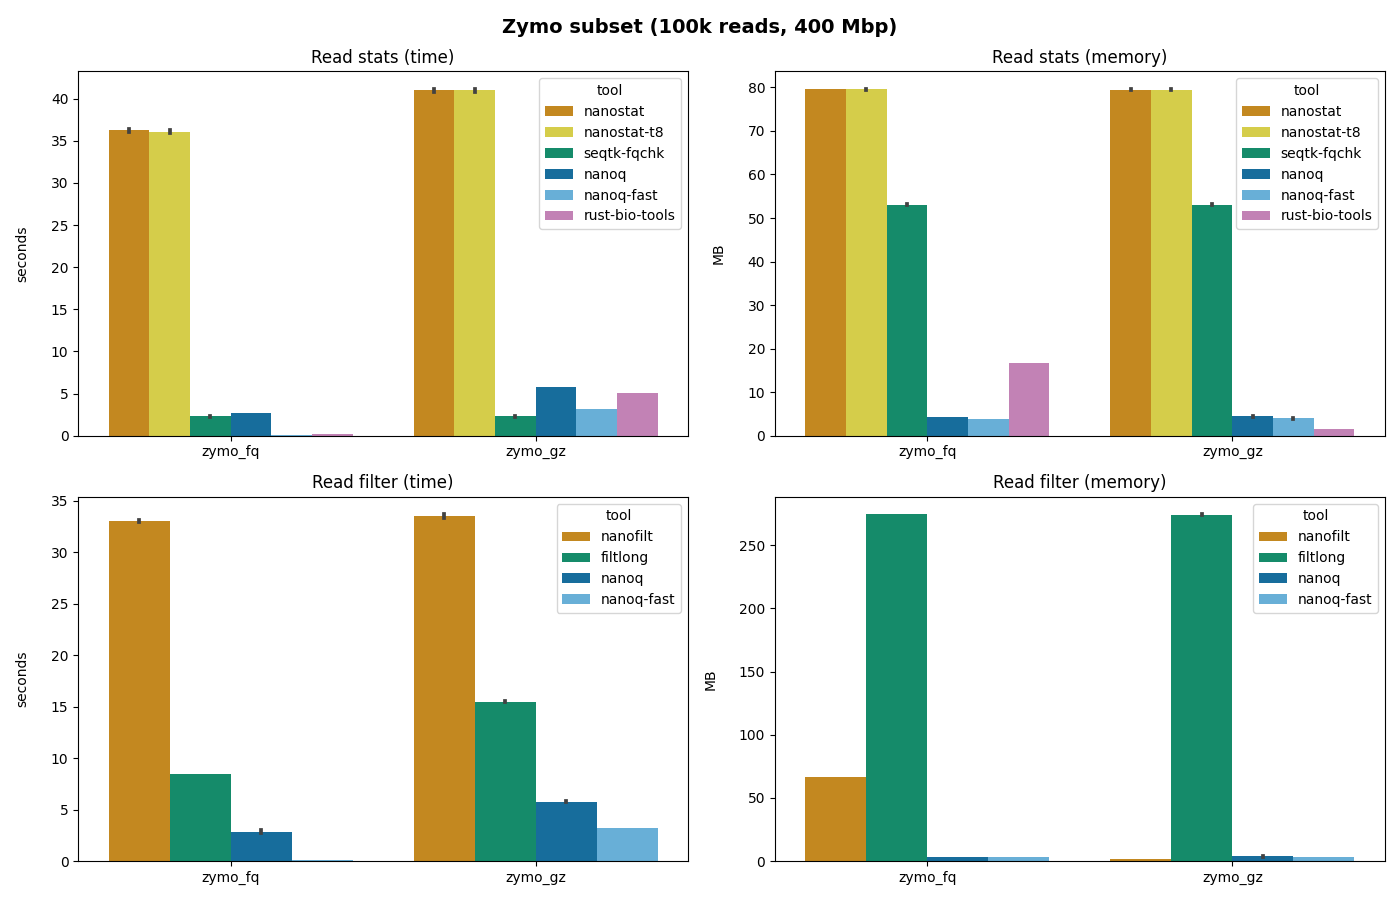
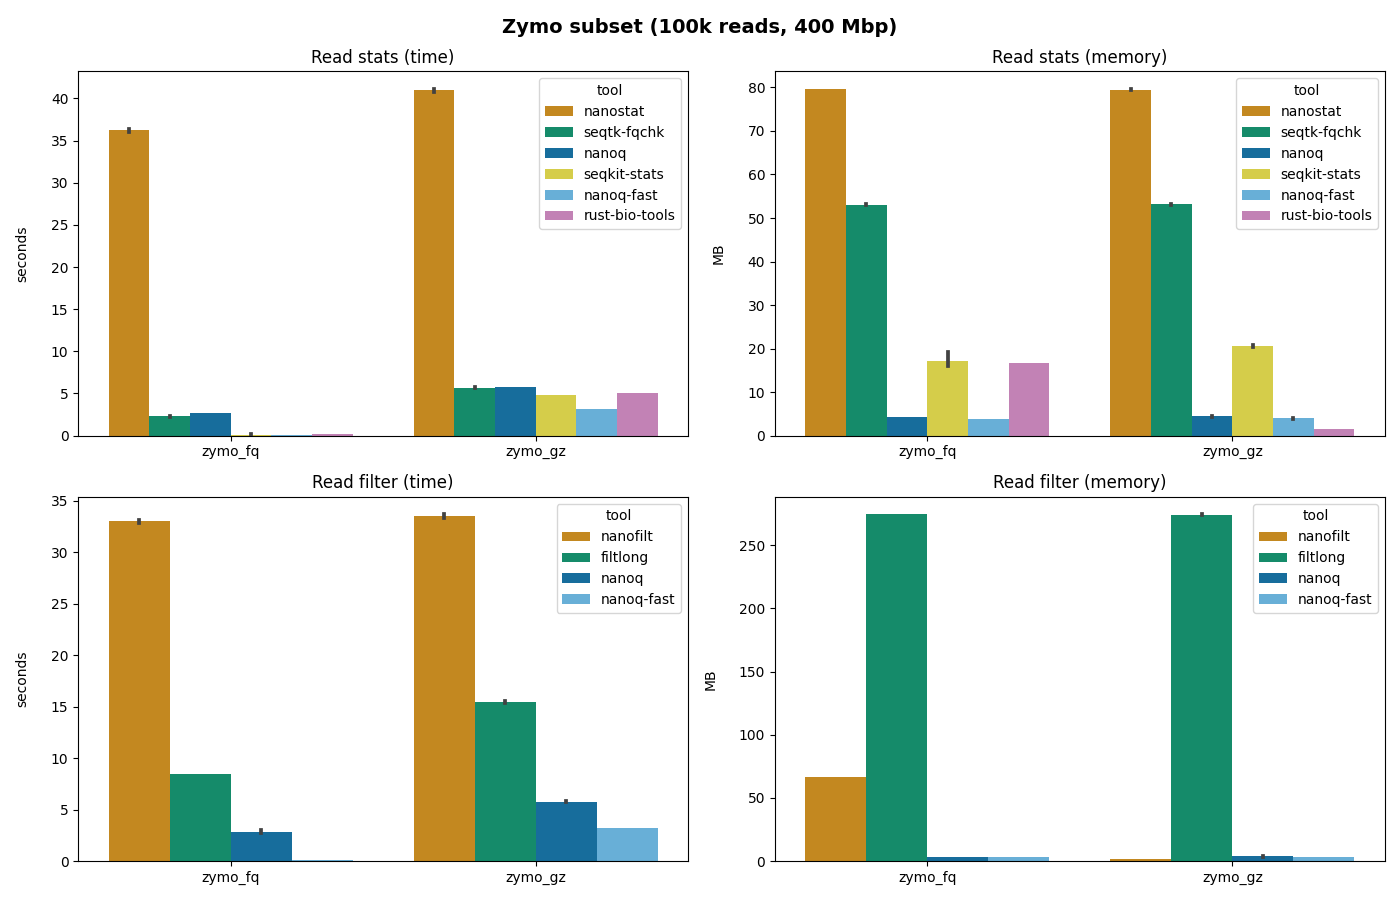
gz fix seqtk; add seqkit benchmark; add data to tables; remove dup fig captions; openjournals/joss-reviews#2991

diff --git a/paper/plot_benchmarks.py b/paper/plot_benchmarks.py
@@ -53,6 +53,8 @@ def read_data() -> pandas.DataFrame:
             tool = "rust-bio-tools"
         elif tool == "seqtk":
             tool = "seqtk-fqchk"
+        elif tool == "seqkit":
+            tool = "seqkit-stats"
     
 
         df1 = df.iloc[1:11, :].copy()  # cold start
@@ -90,8 +92,8 @@ def plot_data(data: pandas.DataFrame) -> None:
 
     seaborn.barplot(
         y='time', x='file', hue='tool', data=stats_data, order=['zymo_fq', 'zymo_gz'],
-        ax=axes1[0][0], palette=["#de8f05", "#ece133", "#029e73", "#0173b2", "#56b4e9", "#cc78bc"], 
-        hue_order=["nanostat", "nanostat-t8", "seqtk-fqchk", "nanoq", "nanoq-fast", "rust-bio-tools"]
+        ax=axes1[0][0], palette=["#de8f05", "#029e73", "#0173b2", "#ece133", "#56b4e9", "#cc78bc"], 
+        hue_order=["nanostat", "seqtk-fqchk", "nanoq", "seqkit-stats", "nanoq-fast", "rust-bio-tools"]
     )
     
     seaborn.barplot(
@@ -109,8 +111,8 @@ def plot_data(data: pandas.DataFrame) -> None:
 
     seaborn.barplot(
         y='mem', x='file', hue='tool', data=stats_data, order=['zymo_fq', 'zymo_gz'],
-        ax=axes1[0][1], palette=["#de8f05", "#ece133", "#029e73", "#0173b2", "#56b4e9", "#cc78bc"], 
-        hue_order=["nanostat", "nanostat-t8", "seqtk-fqchk", "nanoq", "nanoq-fast", "rust-bio-tools"]
+        ax=axes1[0][1], palette=["#de8f05", "#029e73", "#0173b2", "#ece133", "#56b4e9", "#cc78bc"], 
+        hue_order=["nanostat", "seqtk-fqchk", "nanoq", "seqkit-stats", "nanoq-fast", "rust-bio-tools"]
     )
     
     seaborn.barplot(
@@ -146,12 +148,12 @@ def plot_data(data: pandas.DataFrame) -> None:
 
 
     seaborn.barplot(
-        y='time', x='tool', data=stats_data, order=["nanostat", "nanostat-t8", "seqtk-fqchk", "nanoq", "nanoq-fast", "rust-bio-tools"],
-        ax=axes2[0][0], palette=["#de8f05", "#ece133",  "#029e73", "#0173b2", "#56b4e9", "#cc78bc"],
+        y='time', x='tool', data=stats_data, order=["nanostat", "seqtk-fqchk", "nanoq", "seqkit-stats", "nanoq-fast", "rust-bio-tools"],
+        ax=axes2[0][0], palette=["#de8f05",  "#029e73", "#0173b2", "#ece133", "#56b4e9", "#cc78bc"],
     )
     
     seaborn.barplot(
-        y='time', x='tool', data=filter_data, order=["nanofilt", "filtlong", "nanoq", "nanoq-fast"],
+        y='time', x='tool', data=filter_data, order=["nanofilt", "filtlong",  "nanoq", "nanoq-fast"],
         ax=axes2[1][0], palette=["#de8f05", "#029e73",  "#0173b2", "#56b4e9"],
     )
 
@@ -164,8 +166,8 @@ def plot_data(data: pandas.DataFrame) -> None:
 
 
     seaborn.barplot(
-        y='mem', x='tool', data=stats_data, order=["nanostat", "nanostat-t8", "seqtk-fqchk", "nanoq", "nanoq-fast", "rust-bio-tools"],
-        ax=axes2[0][1], palette=["#de8f05", "#ece133", "#029e73", "#0173b2", "#56b4e9", "#cc78bc"],
+        y='mem', x='tool', data=stats_data, order=["nanostat", "seqtk-fqchk", "nanoq", "seqkit-stats", "nanoq-fast", "rust-bio-tools"],
+        ax=axes2[0][1], palette=["#de8f05", "#029e73", "#0173b2", "#ece133", "#56b4e9", "#cc78bc"],
     )
     
     seaborn.barplot(

diff --git a/paper/paper.md b/paper/paper.md
@@ -25,7 +25,7 @@ bibliography: paper.bib
 
 # Summary
 
-Nanopore sequencing is now routinely used in a variety of genomics applications, including whole genome assembly [@human_genome] and real-time infectious disease surveillance [@covid]. One of the first steps in many workflows is to assess the quality of reads and to obtain summary statistics, as well as to filter fragmented or low quality reads. With increasing throughput on scalable nanopore platforms like `GridION` or `PromethION`, fast quality control of sequence reads and the ability to generate summary statistics on-the-fly are required. Benchmarks indicate that `nanoq` is about as fast as `seqtk fqchk` for small uncompressed data and ~1.5x as fast as `seqtk fqchk` for large uncompressed datasets. Without computing quality scores, `nanoq` is around ~2-3x faster than `rust-bio-tools` for summary statistics and up to ~450x faster than `NanoStats` (> 1.2 million reads per second). In read filtering applications, `nanoq` is faster than other commonly tools (`NanoFilt`, `Filtlong`). Memory consumption is consistent and tends to be lower than alternatives (~3-5x). `Nanoq` offers nanopore-specific quality scores, read filtering options and output compression. it can be applied to data from the public domain, as part of automated pipelines, in streaming applications, or to rapidly check progress of active sequencing runs.
+Nanopore sequencing is now routinely used in a variety of genomics applications, including whole genome assembly [@human_genome] and real-time infectious disease surveillance [@covid]. One of the first steps in many workflows is to assess the quality of reads and to obtain summary statistics, as well as to filter fragmented or low quality reads. With increasing throughput on scalable nanopore platforms like `GridION` or `PromethION`, fast quality control of sequence reads and the ability to generate summary statistics on-the-fly are required. Benchmarks indicate that `nanoq` is as fast as `seqtk` for small datasets (100,000 reads) and ~1.5x as fast for large datasets (3.5 million reads). Without computing quality scores, `nanoq` is around ~2-3x faster than `rust-bio-tools` and `seq-kit stats` for summary statistics, 44x faster than `seqtk` and up to ~450x faster than `NanoStats` (> 1.2 million reads per second). In read filtering applications, `nanoq` is faster than other commonly used tools (`NanoFilt`, `Filtlong`). Memory consumption is consistent and tends to be lower than alternative applications (~5-10x). `Nanoq` offers nanopore-specific quality scores, read filtering options and output compression. It can be applied to data from the public domain, as part of automated pipelines, in streaming applications, or to rapidly check progress of active sequencing runs.
 
 # Statement of need
 
@@ -33,7 +33,7 @@ Nanopore sequencing is now routinely used in a variety of genomics applications,
 
 # Benchmarks
 
-Benchmarks evaluate processing speed and memory consumption of a basic read length filter and summary statistics on the even [Zymo mock community](https://github.com/LomanLab/mockcommunity) [@zymo] (`GridION`) with comparisons to [`seqtk fqchk`](https://github.com/lh3/seqtk), [`rust-bio-tools`](https://github.com/rust-bio/rust-bio-tools), [`NanoFilt`](https://github.com/wdecoster/nanofilt), [`NanoStat`](https://github.com/wdecoster/nanostat) and [`Filtlong`](https://github.com/rrwick/Filtlong). Time to completion and maximum memory consumption were measured using `/usr/bin/time -f "%e %M"`, speedup is relative to the slowest command in the set. We note that summary statistics from `rust-bio-tools` do not compute read quality score and are therefore comparable to `nanoq-fast`.
+Benchmarks evaluate processing speed and memory consumption of a basic read length filter and summary statistics on the even [Zymo mock community](https://github.com/LomanLab/mockcommunity) [@zymo] (`GridION`) with comparisons to [`seqtk fqchk`](https://github.com/lh3/seqtk), [`seqkit stats`](https://github.com/shenwei356/seqkit), [`rust-bio-tools`](https://github.com/rust-bio/rust-bio-tools), [`NanoFilt`](https://github.com/wdecoster/nanofilt), [`NanoStat`](https://github.com/wdecoster/nanostat) and [`Filtlong`](https://github.com/rrwick/Filtlong). Time to completion and maximum memory consumption were measured using `/usr/bin/time -f "%e %M"`, speedup is relative to the slowest command in the set. We note that summary statistics from `rust-bio-tools` and `seqkit stats` do not compute read quality scores and are therefore comparable to `nanoq-fast`.
 
 Tasks:
 
@@ -48,12 +48,14 @@ Tools:
 * `filtlong=0.2.1`
 * `seqtk=1.3-r126`
 * `nanoq=0.8.2`
+* `seqkit=2.0.0`
 
 Commands used for `stats` task:
 
   * `nanostat` (fq + fq.gz)  --> `NanoStat --fastq test.fq --threads 1` 
   * `nanostat-t8` (fq + fq.gz) --> `NanoStat --fastq test.fq --threads 8` 
   * `seqtk-fqchk` (fq + fq.gz) --> `seqtk fqchk`
+  * `seqkit-stats` (fq + fq.gz) --> `seqkit stats -j1`
   * `rust-bio` (fq) --> `rbt sequence-stats --fastq < test.fq`
   * `rust-bio` (fq.gz) --> `zcat test.fq.gz | rbt sequence-stats --fastq`
   * `nanoq` (fq + fq.gz) --> `nanoq --input test.fq --stats` 
@@ -104,17 +106,17 @@ done
 
 ![Nanoq benchmarks on 3.5 million reads of the Zymo mock community (10 replicates)](benchmarks_zymo_full.png?raw=true "Nanoq benchmarks full")
 
-**Figure 1**: Nanoq benchmarks on 3.5 million reads of the Zymo mock community (10 replicates)
 
 ### `stats` + `zymo.full.fq`
 
-| command         | mem (sd)         | sec (sd)           |  reads / sec    | speedup  |
-| ----------------|------------------|--------------------|-----------------|----------|
-| nanostat        | 741.4 (0.09)     | 1260. (13.9)       | 2,770           | 01.00 x  |
-| nanostat-t8     | 741.4 (0.10)     | 1249. (9.12)       | 2,795           | 01.00 x  |
-| nanoq           | 35.83 (0.06)     | 94.51 (0.43)       | 36,938          | 13.34 x  |
-| rust-bio        | 43.20 (0.08)     | 06.54 (0.05)       | 533,803         | 192.7 x  |
-| nanoq-fast      | **22.18** (0.07) | **02.85** (0.02)   | 1,224,939       | 442.1 x  |
+| command         | mem (sd)         | sec (sd)           |  reads / sec    | speedup  | quality scores |
+| ----------------|------------------|--------------------|-----------------|----------|----------------|
+| nanostat        | 741.4 (0.09)     | 1260. (13.9)       | 2,770           | 01.00 x  | true           |
+| seqtk-fqchk     | 103.8 (0.04)     | 125.9 (0.15)       | 27,729          | 10.01 x  | true           |
+| seqkit-stats    | **18.68** (3.15) | 125.3 (0.91)       | 27,861          | 10.05 x  | false          |
+| nanoq           | 35.83 (0.06)     | 94.51 (0.43)       | 36,938          | 13.34 x  | true           |
+| rust-bio        | 43.20 (0.08)     | 06.54 (0.05)       | 533,803         | 192.7 x  | false          |
+| nanoq-fast      | 22.18 (0.07)     | **02.85** (0.02)   | 1,224,939       | 442.1 x  | false          |
 
 ### `filter` + `zymo.full.fq`
 
@@ -128,28 +130,28 @@ done
 
 ![Nanoq benchmarks on 100,000 reads of the Zymo mock community (10 replicates)](benchmarks_zymo.png?raw=true "Nanoq benchmarks subset" )
 
-**Figure 2**: Nanoq benchmarks on 100,000 reads of the Zymo mock community (10 replicates)
-
 ### `stats` + `zymo.fq`
 
-| command         | mem (sd)         | sec (sd)           |  reads / sec    | speedup  |
-| ----------------|------------------|--------------------|-----------------|----------|
-| nanostat        | 79.64 (0.14)     | 36.22 (0.27)       | 2,760           | 01.00 x  |
-| nanostat-t8     | 79.53 (0.24)     | 36.06 (0.34)       | 2,776           | 01.00 x  |
-| nanoq           | 04.26 (0.09)     | 02.69 (0.02)       | 37,147          | 13.46 x  |
-| rust-bio        | 16.61 (0.08)     | 00.22 (0.00)       | 100,000         | 36.23 x  |
-| nanoq-fast      | **03.81** (0.05) | **00.08** (0.00)   | 100,000         | 36.23 x  |
+| command         | mem (sd)         | sec (sd)           |  reads / sec    | speedup  | quality scores |
+| ----------------|------------------|--------------------|-----------------|----------|----------------|
+| nanostat        | 79.64 (0.14)     | 36.22 (0.27)       | 2,760           | 01.00 x  | true           |
+| nanoq           | 04.26 (0.09)     | 02.69 (0.02)       | 37,147          | 13.46 x  | true           |
+| seqtk-fqchk     | 53.01 (0.05)     | 02.28 (0.06)       | 43,859          | 15.89 x  | true           |
+| seqkit-stats    | 17.07 (3.03)     | 00.13 (0.00)       | 100,000         | 36.23 x  | false          |
+| rust-bio        | 16.61 (0.08)     | 00.22 (0.00)       | 100,000         | 36.23 x  | false          |
+| nanoq-fast      | **03.81** (0.05) | **00.08** (0.00)   | 100,000         | 36.23 x  | false          |
 
 
 ### `stats` + `zymo.fq.gz`
 
-| command         | mem (sd)         | sec (sd)           |  reads / sec    | speedup  |
-| ----------------|------------------|--------------------|-----------------|----------|
-| nanostat        | 79.46 (0.22)     | 40.98 (0.31)       | 2,440           | 01.00 x  |
-| nanostat-t8     | 79.43 (0.18)     | 41.01 (0.30)       | 2,438           | 01.00 x  |
-| nanoq           | 04.44 (0.09)     | 05.74 (0.04)       | 17,421          | 07.14 x  |
-| rust-bio        | **01.59** (0.06) | 05.06 (0.04)       | 19,762          | 08.09 x  |
-| nanoq-fast      | 03.95 (0.07)     | **03.15** (0.02)   | 31,746          | 13.01 x  |
+| command         | mem (sd)         | sec (sd)           |  reads / sec    | speedup  | quality scores |
+| ----------------|------------------|--------------------|-----------------|----------|----------------|
+| nanostat        | 79.46 (0.22)     | 40.98 (0.31)       | 2,440           | 01.00 x  | true           |
+| nanoq           | 04.44 (0.09)     | 05.74 (0.04)       | 17,421          | 07.14 x  | true           |
+| seqtk-fqchk     | 53.11 (0.05)     | 05.70 (0.08)       | 17,543          | 07.18 x  | true           |
+| rust-bio        | **01.59** (0.06) | 05.06 (0.04)       | 19,762          | 08.09 x  | false          |
+| seqkit-stats    | 20.54 (0.41)     | 04.85 (0.02)       | 20,619          | 08.45 x  | false          |
+| nanoq-fast      | 03.95 (0.07)     | **03.15** (0.02)   | 31,746          | 13.01 x  | false          |
 
 ### `filter` + `zymo.fq`
 
